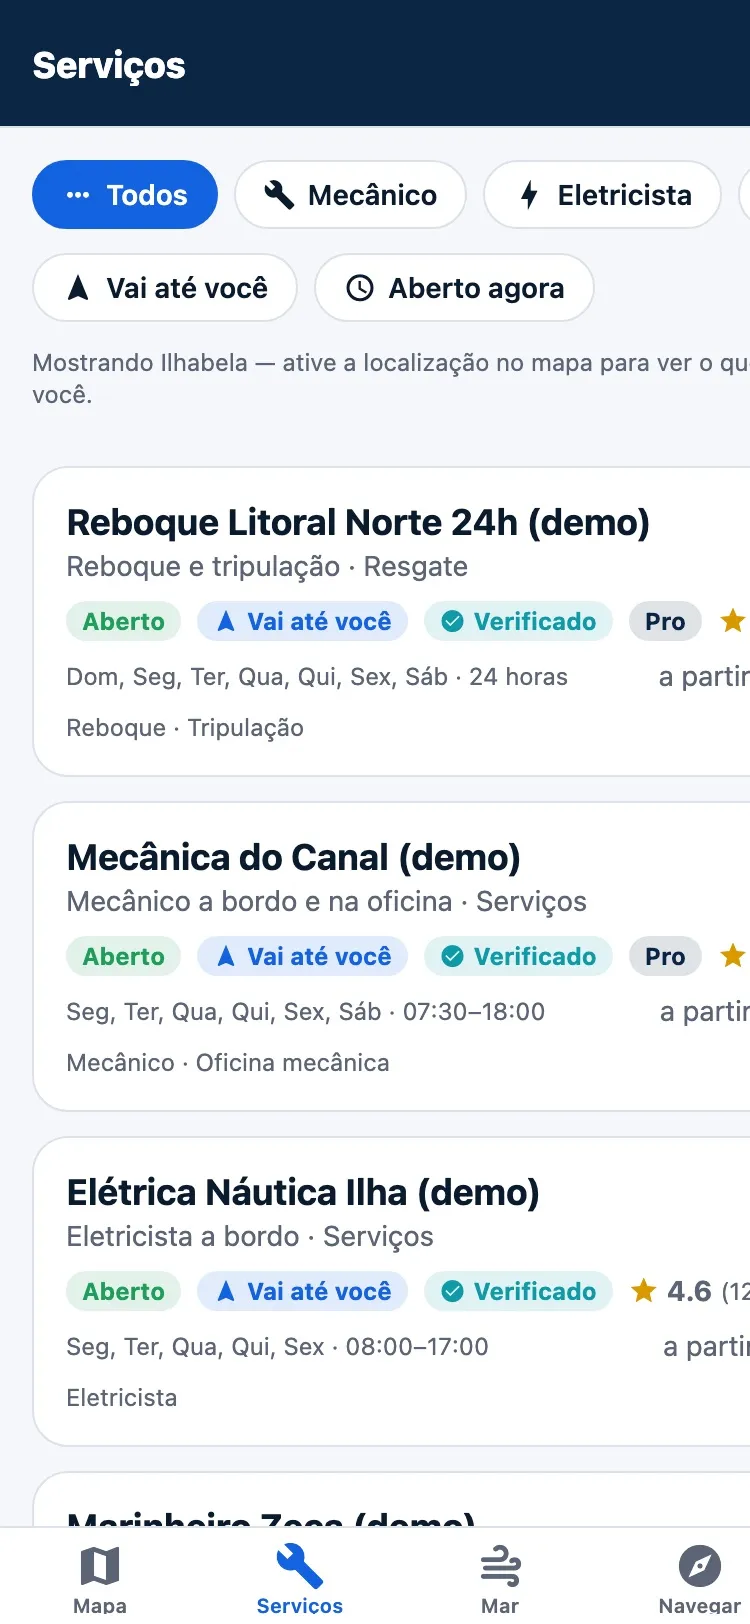
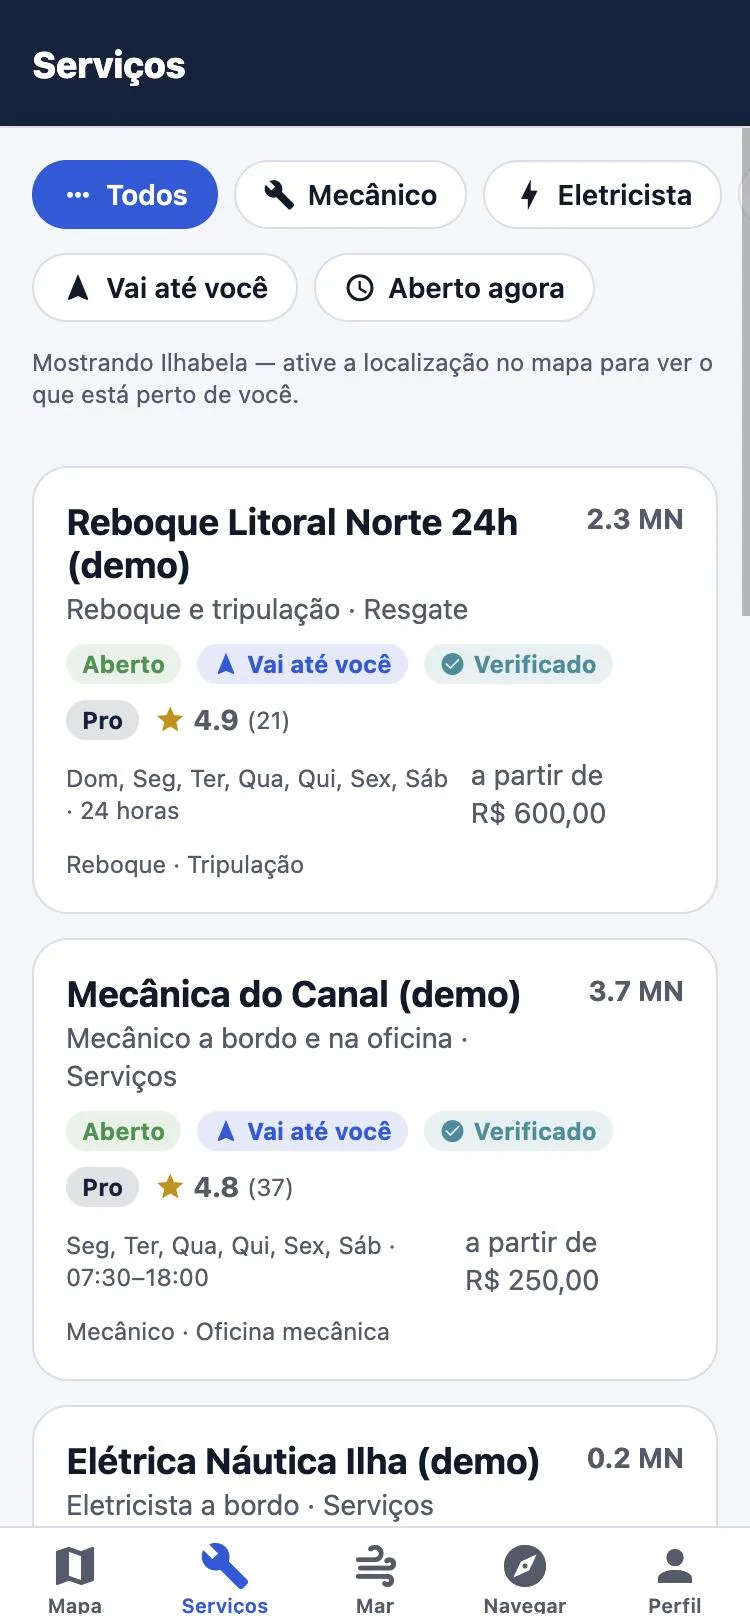
Ajustes de celular: barra de status nas telas, cartões de recursos, selo do topo e novos prints de SOS e serviços

diff --git a/styles.css b/styles.css
@@ -187,10 +187,10 @@ p { margin: 0 0 1em; text-wrap: pretty; }
   background: linear-gradient(145deg, #1b2b44, #050c17);
   box-shadow: inset 0 0 0 1.5px rgba(255, 255, 255, .12), var(--shadow-lg);
 }
-.phone img { border-radius: 34px; width: 100%; aspect-ratio: 375 / 812; object-fit: cover; object-position: top; background: #0B2545; }
-.phone::before { /* ilha dinâmica */
-  content: ""; position: absolute; top: 20px; left: 50%; transform: translateX(-50%);
-  width: 28%; height: 22px; border-radius: 20px; background: #050c17; z-index: 2;
+.phone img { border-radius: 34px; border-top: 30px solid #0B2545; width: 100%; aspect-ratio: 375 / 842; object-fit: cover; object-position: top; background: #0B2545; }
+.phone::before { /* ilha dinâmica, na faixa da barra de status */
+  content: ""; position: absolute; top: 16px; left: 50%; transform: translateX(-50%);
+  width: 30%; height: 18px; border-radius: 20px; background: #050c17; z-index: 2;
 }
 .phone--hero { width: min(310px, 72vw); transform: rotate(-3deg); animation: bob 7s ease-in-out infinite; }
 @keyframes bob { 0%, 100% { transform: rotate(-3deg) translateY(0); } 50% { transform: rotate(-2deg) translateY(-10px); } }
@@ -227,6 +227,7 @@ p { margin: 0 0 1em; text-wrap: pretty; }
   .float--mooring { right: 0; bottom: 8%; }
 }
 @media (max-width: 520px) {
+  .hero .eyebrow { font-size: .7rem; letter-spacing: .08em; }
   .hero__actions .btn { width: 100%; }
   .float { padding: 10px 12px; max-width: 200px; }
   .float strong { font-size: .85rem; }
@@ -256,7 +257,7 @@ p { margin: 0 0 1em; text-wrap: pretty; }
 
 /* ---------- Mar agora ---------- */
 .mar { display: grid; grid-template-columns: .9fr 1.1fr; gap: clamp(28px, 5vw, 64px); align-items: start; }
-.mar__intro p { color: var(--text-2); font-size: 1.08rem; }
+.mar__intro p:not(.eyebrow) { color: var(--text-2); font-size: 1.08rem; }
 .seg { border: 0; padding: 0; margin: 24px 0 16px; }
 .seg legend { font-weight: 700; font-size: .9rem; margin-bottom: 10px; padding: 0; }
 .seg label { position: relative; display: inline-block; margin: 0 6px 6px 0; }
@@ -319,7 +320,7 @@ p { margin: 0 0 1em; text-wrap: pretty; }
 .step__shot { display: none; }
 .tour__stage { position: relative; }
 .phone--stage { position: sticky; top: calc(var(--nav-h) + 32px); width: 100%; }
-.phone--stage img { position: absolute; inset: 10px; width: calc(100% - 20px); opacity: 0; transform: scale(.98); transition: opacity .45s ease, transform .45s ease; }
+.phone--stage img { position: absolute; top: 10px; left: 10px; width: calc(100% - 20px); opacity: 0; transform: scale(.98); transition: opacity .45s ease, transform .45s ease; }
 .phone--stage img:first-child { position: relative; inset: auto; width: 100%; }
 .phone--stage img.is-on { opacity: 1; transform: none; }
 
@@ -339,11 +340,12 @@ p { margin: 0 0 1em; text-wrap: pretty; }
     background: var(--surface); box-shadow: var(--shadow);
     display: grid; grid-template-columns: 52px 1fr; column-gap: 16px; align-items: start;
   }
-  .step__icon { position: static; grid-row: 1 / span 2; }
-  .step h3 { margin-top: 4px; }
+  .step__icon { position: static; }
+  .step h3 { margin: 0; align-self: center; }
+  .step p { grid-column: 1 / -1; margin-top: 14px; }
   .step__shot { display: block; grid-column: 1 / -1; margin: 22px auto 0; width: min(250px, 70%); border-radius: 36px; padding: 8px; }
-  .step__shot img { border-radius: 28px; }
-  .step__shot::before { top: 16px; height: 18px; }
+  .step__shot img { border-radius: 28px; border-top-width: 24px; }
+  .step__shot::before { top: 13px; height: 14px; }
 }
 @media (max-width: 420px) {
   .step { grid-template-columns: 44px 1fr; padding: 18px; }
